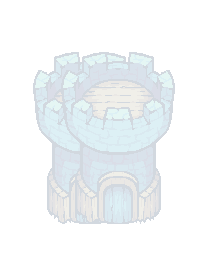
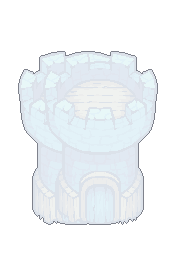
Planche v3 : piques plus grandes, plaques en anneaux, deux silhouettes d'esquive, règle de cumul (T9.24)
Claude-Session: https://claude.ai/code/session_01FhwUofV87STXJtiHUMMCG9

diff --git a/assets/tour_apparence/SOURCES.md b/assets/tour_apparence/SOURCES.md
@@ -31,12 +31,12 @@ l’identique. Points de pose : `data/skins_tour.json`.
 | `armure_2_avant.png`          | blocs de plaques irréguliers qui suivent le fût, palier 2, couche avant                                                | Godot 4.7.2, `Image` (MIT) | CC0 1.0 |
 | `armure_3_arriere.png`        | blocs de plaques irréguliers qui suivent le fût, palier 3, couche arriere                                              | Godot 4.7.2, `Image` (MIT) | CC0 1.0 |
 | `armure_3_avant.png`          | blocs de plaques irréguliers qui suivent le fût, palier 3, couche avant                                                | Godot 4.7.2, `Image` (MIT) | CC0 1.0 |
-| `esquive_1_arriere.png`       | images rémanentes pâles de part et d’autre (silhouette de `Tower_Blue.png`, CC0) et traînées, palier 1, couche arriere | Godot 4.7.2, `Image` (MIT) | CC0 1.0 |
-| `esquive_1_avant.png`         | images rémanentes pâles de part et d’autre (silhouette de `Tower_Blue.png`, CC0) et traînées, palier 1, couche avant   | Godot 4.7.2, `Image` (MIT) | CC0 1.0 |
-| `esquive_2_arriere.png`       | images rémanentes pâles de part et d’autre (silhouette de `Tower_Blue.png`, CC0) et traînées, palier 2, couche arriere | Godot 4.7.2, `Image` (MIT) | CC0 1.0 |
-| `esquive_2_avant.png`         | images rémanentes pâles de part et d’autre (silhouette de `Tower_Blue.png`, CC0) et traînées, palier 2, couche avant   | Godot 4.7.2, `Image` (MIT) | CC0 1.0 |
-| `esquive_3_arriere.png`       | images rémanentes pâles de part et d’autre (silhouette de `Tower_Blue.png`, CC0) et traînées, palier 3, couche arriere | Godot 4.7.2, `Image` (MIT) | CC0 1.0 |
-| `esquive_3_avant.png`         | images rémanentes pâles de part et d’autre (silhouette de `Tower_Blue.png`, CC0) et traînées, palier 3, couche avant   | Godot 4.7.2, `Image` (MIT) | CC0 1.0 |
+| `esquive_1_arriere.png`       | deux silhouettes nettes et transparentes de part et d’autre (silhouette de `Tower_Blue.png`, CC0), palier 1, couche arriere | Godot 4.7.2, `Image` (MIT) | CC0 1.0 |
+| `esquive_1_avant.png`         | deux silhouettes nettes et transparentes de part et d’autre (silhouette de `Tower_Blue.png`, CC0), palier 1, couche avant   | Godot 4.7.2, `Image` (MIT) | CC0 1.0 |
+| `esquive_2_arriere.png`       | deux silhouettes nettes et transparentes de part et d’autre (silhouette de `Tower_Blue.png`, CC0), palier 2, couche arriere | Godot 4.7.2, `Image` (MIT) | CC0 1.0 |
+| `esquive_2_avant.png`         | deux silhouettes nettes et transparentes de part et d’autre (silhouette de `Tower_Blue.png`, CC0), palier 2, couche avant   | Godot 4.7.2, `Image` (MIT) | CC0 1.0 |
+| `esquive_3_arriere.png`       | deux silhouettes nettes et transparentes de part et d’autre (silhouette de `Tower_Blue.png`, CC0), palier 3, couche arriere | Godot 4.7.2, `Image` (MIT) | CC0 1.0 |
+| `esquive_3_avant.png`         | deux silhouettes nettes et transparentes de part et d’autre (silhouette de `Tower_Blue.png`, CC0), palier 3, couche avant   | Godot 4.7.2, `Image` (MIT) | CC0 1.0 |
 | `regen_1_arriere.png`         | halo pâle derrière, lueur et étincelles devant, palier 1, couche arriere                                               | Godot 4.7.2, `Image` (MIT) | CC0 1.0 |
 | `regen_1_avant.png`           | halo pâle derrière, lueur et étincelles devant, palier 1, couche avant                                                 | Godot 4.7.2, `Image` (MIT) | CC0 1.0 |
 | `regen_2_arriere.png`         | halo pâle derrière, lueur et étincelles devant, palier 2, couche arriere                                               | Godot 4.7.2, `Image` (MIT) | CC0 1.0 |
